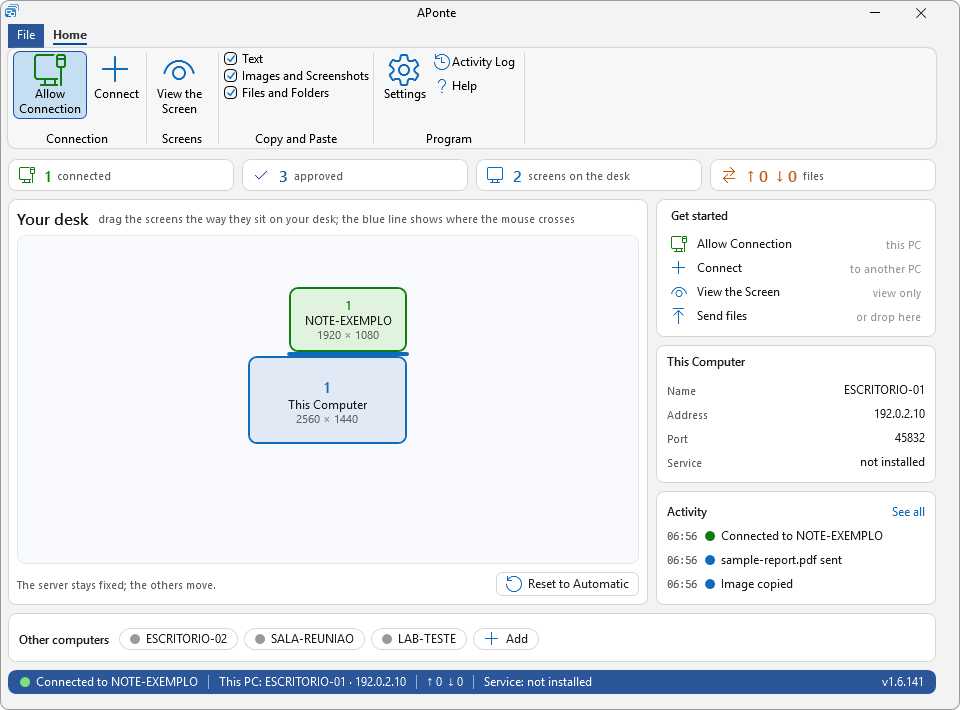
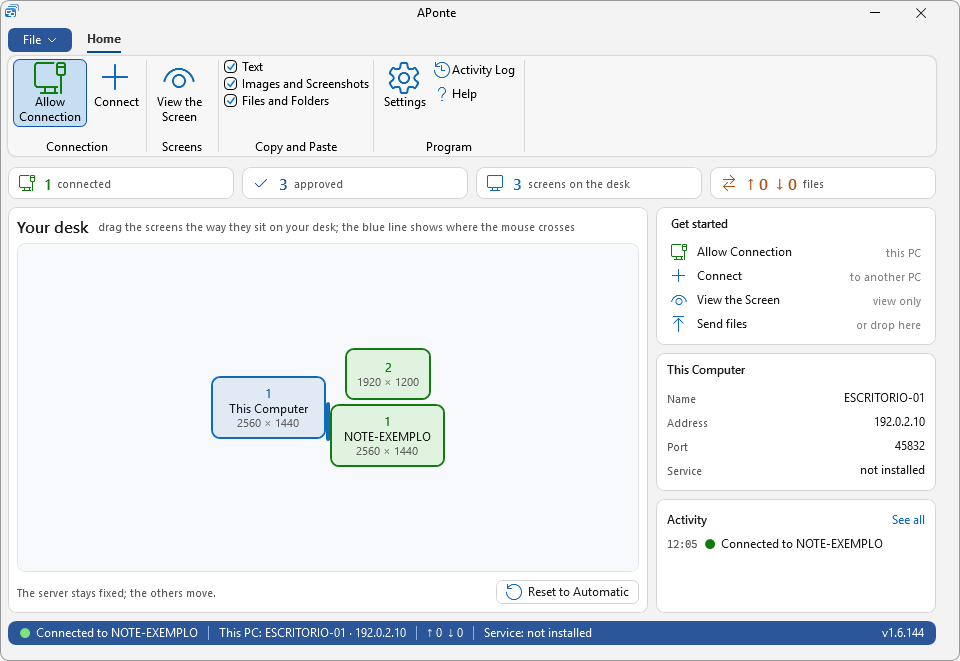
Página de apresentação: imagens e textos atualizados para a versão atual

diff --git a/README.md b/README.md
@@ -50,16 +50,17 @@ Baixe em [GitHub › versão mais recente](https://github.com/Dorflex-DD/APonte/
 ## O que ele faz
 
 - **Mouse e teclado compartilhados.** Leve o ponteiro até a borda da tela e ele passa para o outro computador; o teclado acompanha. `Ctrl+Alt+Pause` devolve o controle ao computador local.
-- **Sua mesa.** Arraste as telas dos outros computadores para onde elas estão de verdade na sua mesa: ao lado, acima, abaixo ou desalinhadas. Funciona com vários monitores, uma linha azul mostra por onde o mouse passa e a posição fica salva.
+- **Sua mesa.** Arraste as telas dos outros computadores para onde elas estão de verdade na sua mesa. A tela sempre encaixa encostada em um dos quatro lados (esquerda, direita, acima ou abaixo), monitor a monitor, também em computadores com vários monitores. Uma prévia tracejada mostra onde ela vai ficar, a linha azul mostra por onde o mouse passa e a posição fica salva.
 - **Copiar e colar entre os computadores.** Textos, imagens e prints, arquivos e pastas. Cada tipo pode ser ligado ou desligado.
 - **Enviar arquivos.** Arraste para a janela do APonte, escolha pelo seletor de arquivos ou use o item do APonte no menu do botão direito do Explorador de Arquivos.
 - **Ver a tela do outro computador.** Numa janela, por monitor ou todos juntos, também em tela cheia.
-- **Conexão só com aprovação.** Cada computador novo precisa ser aprovado uma vez. Dá para esquecer um computador aprovado ou todos.
+- **Conexão só com aprovação.** Cada computador novo precisa ser aprovado uma vez. Os aprovados ficam na janela Conectar, a um clique, e dá para esquecer um computador ou todos.
 - **Serviço do Windows.** Com o instalador, o controle funciona também na tela de entrada do Windows.
-- **Atualização pelo próprio app.** O APonte avisa quando há versão nova, baixa e instala. Os pacotes são conferidos por uma lista SHA-256 assinada.
+- **Atualização pelo próprio app.** O APonte avisa quando há versão nova, baixa e instala. Ele procura por dois caminhos: primeiro no GitLab e, se não houver resposta, no GitHub. Nos dois, o pacote só é instalado depois de conferido por uma lista SHA-256 assinada.
+- **Configurações com busca.** Todas as opções numa janela só, separadas por assunto, com um campo para procurar o que você precisa.
 - **Backup.** Importar e exportar as configurações.
 - **Registro e diagnóstico.** Histórico de conexões, arquivos e erros, com busca e filtros, e pacote de diagnóstico.
-- **Português e inglês**, tema claro ou escuro, cor de destaque e tamanho da interface.
+- **Tema claro e escuro**, cor de destaque e tamanho da interface, em português e inglês.
 - **Perto do relógio.** O APonte pode iniciar com o Windows, continuar no ícone ao lado do relógio e reconectar sozinho.
 
 ## Como começar
@@ -70,21 +71,31 @@ Baixe em [GitHub › versão mais recente](https://github.com/Dorflex-DD/APonte/
 
 ## Imagens
 
-Todas as imagens são da versão 1.6.141, com dados de exemplo.
+Imagens do próprio APonte, com dados de exemplo.
 
 <p align="center">
-  <img src="docs/imagens/pt/principal-conectado.png" width="820" alt="Janela principal conectada"><br>
-  <sub><b>Sua mesa</b> com um computador conectado: contadores, atalhos para começar, dados deste computador e atividade.</sub>
+  <img src="docs/imagens/pt/principal-conectado.png" width="820" alt="Janela principal conectada, com um computador de dois monitores encostado"><br>
+  <sub><b>Sua mesa</b> com um computador de dois monitores encostado à direita: contadores, atalhos para começar, dados deste computador e atividade.</sub>
 </p>
 
 <p align="center">
-  <img src="docs/imagens/pt/mesa-arrastando.png" width="820" alt="Arrastando uma tela na Sua mesa"><br>
-  <sub><b>Arrastando uma tela</b> para o lugar onde ela está na mesa. A linha azul mostra por onde o mouse passa.</sub>
+  <img src="docs/imagens/pt/mesa-arrastando.png" width="820" alt="Arrastando as telas de um computador na Sua mesa"><br>
+  <sub><b>Arrastando um computador</b> para o outro lado: a prévia tracejada mostra onde cada monitor vai encaixar e a linha azul, por onde o mouse passa.</sub>
+</p>
+
+<p align="center">
+  <img src="docs/imagens/pt/principal-conectado-escuro.png" width="820" alt="Janela principal no tema escuro"><br>
+  <sub><b>Tema escuro</b>: a mesma janela, com as mesmas funções.</sub>
 </p>
 
 <p align="center">
   <img src="docs/imagens/pt/principal-sem-conexao.png" width="820" alt="Janela principal sem conexão"><br>
-  <sub><b>Sem conexão</b>: os computadores já aprovados ficam a um clique, em <i>Outros computadores</i>.</sub>
+  <sub><b>Sem conexão</b>: a mesa mostra só este computador; <i>Permitir conexão</i> e <i>Conectar</i> ficam à mão.</sub>
+</p>
+
+<p align="center">
+  <img src="docs/imagens/pt/menu-arquivo.png" width="820" alt="Botão Arquivo com o menu aberto"><br>
+  <sub><b>Menu Arquivo</b>: configurações, importar e exportar, ajuda e os computadores recentes.</sub>
 </p>
 
 <p align="center">
@@ -94,11 +105,29 @@ Todas as imagens são da versão 1.6.141, com dados de exemplo.
 
 | | |
 |:---:|:---:|
-| <img src="docs/imagens/pt/conectar.png" alt="Janela Conectar"><br><sub><b>Conectar</b>: nome ou endereço, porta e de que lado o outro fica.</sub> | <img src="docs/imagens/pt/aprovar.png" alt="Pedido de conexão"><br><sub><b>Pedido de conexão</b>: só entra quem você permitir.</sub> |
+| <img src="docs/imagens/pt/conectar.png" alt="Janela Conectar"><br><sub><b>Conectar</b>: nome ou endereço, porta, o lado e a lista dos computadores aprovados.</sub> | <img src="docs/imagens/pt/aprovar.png" alt="Pedido de conexão"><br><sub><b>Pedido de conexão</b>: só entra quem você permitir.</sub> |
 | <img src="docs/imagens/pt/enviar.png" alt="Enviando arquivos"><br><sub><b>Enviar arquivos</b> com andamento e velocidade.</sub> | <img src="docs/imagens/pt/sobre.png" alt="Sobre o APonte"><br><sub><b>Sobre</b>: versão, novidades, termos e verificação de atualização.</sub> |
-| <img src="docs/imagens/pt/menu-arquivo.png" alt="Menu Arquivo"><br><sub><b>Menu Arquivo</b> com os computadores recentes.</sub> | <img src="docs/imagens/pt/menu-mesa.png" alt="Menu do botão direito na tela da mesa"><br><sub><b>Botão direito</b> numa tela da mesa.</sub> |
-| <img src="docs/imagens/pt/config-geral.png" alt="Configurações, página Geral"><br><sub><b>Configurações › Geral</b></sub> | <img src="docs/imagens/pt/config-conexao.png" alt="Configurações, página Conexão"><br><sub><b>Configurações › Conexão</b></sub> |
-| <img src="docs/imagens/pt/config-aparencia.png" alt="Configurações, página Aparência"><br><sub><b>Configurações › Aparência</b>: tema, cor e tamanho.</sub> | <img src="docs/imagens/pt/registro.png" alt="Registro"><br><sub><b>Registro</b> com busca e filtros.</sub> |
+| <img src="docs/imagens/pt/menu-mesa.png" alt="Menu do botão direito na tela da mesa"><br><sub><b>Botão direito</b> numa tela da mesa: ver a tela, enviar arquivos e posição.</sub> | <img src="docs/imagens/pt/registro.png" alt="Registro"><br><sub><b>Registro</b> com busca e filtros.</sub> |
+
+<p align="center">
+  <img src="docs/imagens/pt/config-windows.png" width="760" alt="Configurações, página Windows"><br>
+  <sub><b>Configurações</b>: os assuntos à esquerda e todas as opções numa rolagem só.</sub>
+</p>
+
+<p align="center">
+  <img src="docs/imagens/pt/config-busca.png" width="760" alt="Busca nas Configurações"><br>
+  <sub><b>Procurar nas configurações</b>: digite e fica só o que combina.</sub>
+</p>
+
+<p align="center">
+  <img src="docs/imagens/pt/config-aparencia.png" width="760" alt="Configurações, página Aparência"><br>
+  <sub><b>Configurações › Aparência</b>: tema, cor de destaque, tamanho e idioma.</sub>
+</p>
+
+<p align="center">
+  <img src="docs/imagens/pt/config-rede.png" width="760" alt="Configurações, página Rede e computadores aprovados"><br>
+  <sub><b>Configurações › Rede</b> e <b>Computadores aprovados</b>: esquecer um computador ou todos.</sub>
+</p>
 
 ## Requisitos
 
@@ -110,7 +139,8 @@ O instalador abre em português. Para inglês, execute `msiexec /i "arquivo.msi"
 
 ## Atualizações
 
-- O APonte avisa quando há versão nova e faz a atualização (**Configurações › Atualização** ou **Sobre › Verificar atualização**). A verificação pode ser desligada nas Configurações.
+- O APonte avisa quando há versão nova e faz a atualização (**Configurações › Atualizações** ou **Sobre › Verificar atualização**). A verificação pode ser desligada nas Configurações.
+- A busca da versão nova usa dois caminhos: o GitLab e, se ele não responder, o GitHub. A conferência da assinatura é a mesma nos dois.
 - Atualizar mantém as configurações e os computadores aprovados.
 - Se você usa a 1.6.125, 1.6.126 ou 1.6.127 com apenas o .NET 10, instale antes o [.NET Desktop Runtime 11 x64](https://dotnet.microsoft.com/download/dotnet/11.0) ou baixe o pacote `com-runtime` no mesmo formato que já usa.
 - **Portátil, à mão:** feche o APonte, apague tudo na pasta dele, menos a pasta `dados`, e descompacte o pacote novo. Nunca descompacte por cima.
@@ -121,7 +151,7 @@ O instalador abre em português. Para inglês, execute `msiexec /i "arquivo.msi"
 - **Rede local.** Os computadores conversam diretamente entre si, pela sua rede. Não há conta nem cadastro.
 - **Aprovação.** Um computador novo só entra depois que você permite. Nome e endereço não bastam: cada computador tem uma identidade própria, que é conferida a cada conexão, e a conexão entre eles é cifrada.
 - **Atualizações conferidas.** Antes de instalar uma versão nova, o APonte confere os pacotes por uma lista SHA-256 assinada pelo autor.
-- **Seus dados ficam com você.** O APonte grava seus dados apenas na própria pasta e não envia informações ao autor. A verificação de versão nova consulta apenas o endereço público de publicação.
+- **Seus dados ficam com você.** O APonte grava seus dados apenas na própria pasta e não envia informações ao autor. A verificação de versão nova consulta apenas os endereços públicos de publicação (GitLab e GitHub).
 
 ## Licença
 

diff --git a/README.en.md b/README.en.md
@@ -50,16 +50,17 @@ Download from [GitHub › latest version](https://github.com/Dorflex-DD/APonte/r
 ## What it does
 
 - **Shared mouse and keyboard.** Move the pointer to the edge of the screen and it crosses to the other computer; the keyboard follows. `Ctrl+Alt+Pause` gives control back to the local computer.
-- **Your desk.** Drag the other computers' screens to where they really sit on your desk: beside, above, below or unaligned. It works with several monitors, a blue line shows where the mouse crosses, and the position is saved.
+- **Your desk.** Drag the other computers' screens to where they really sit on your desk. A screen always snaps against one of the four sides (left, right, above or below), monitor by monitor, also on computers with several monitors. A dashed preview shows where it will land, the blue line shows where the mouse crosses, and the position is saved.
 - **Copy and paste between computers.** Text, images and screenshots, files and folders. Each kind can be turned on or off.
 - **Send files.** Drag them onto the APonte window, pick them with the file chooser or use the APonte item in the File Explorer right-click menu.
 - **View the other computer's screen.** In a window, one monitor or all of them, also in full screen.
-- **Connection only with approval.** Each new computer has to be approved once. You can forget one approved computer or all of them.
+- **Connection only with approval.** Each new computer has to be approved once. Approved computers are listed in the Connect window, one click away, and you can forget one computer or all of them.
 - **Windows service.** With the installer, control also works on the Windows sign-in screen.
-- **Updates from the app itself.** APonte tells you when there is a new version, downloads and installs it. Packages are checked against a signed SHA-256 list.
+- **Updates from the app itself.** APonte tells you when there is a new version, downloads and installs it. It looks in two places: GitLab first and, if there is no answer, GitHub. Either way, the package is only installed after it is checked against a signed SHA-256 list.
+- **Settings with search.** Every option in a single window, grouped by subject, with a box to search for what you need.
 - **Backup.** Import and export the settings.
 - **Activity log and diagnostics.** History of connections, files and errors, with search and filters, plus a diagnostics package.
-- **Portuguese and English**, light or dark theme, accent color and interface size.
+- **Light and dark theme**, accent color and interface size, in Portuguese and English.
 - **Near the clock.** APonte can start with Windows, keep running in the icon next to the clock and reconnect by itself.
 
 ## Getting started
@@ -70,21 +71,31 @@ Download from [GitHub › latest version](https://github.com/Dorflex-DD/APonte/r
 
 ## Screenshots
 
-All images are from version 1.6.141, with sample data.
+Screenshots of APonte itself, with sample data.
 
 <p align="center">
-  <img src="docs/imagens/en/principal-conectado.png" width="820" alt="Main window, connected"><br>
-  <sub><b>Your desk</b> with one computer connected: counters, shortcuts to get started, this computer's details and activity.</sub>
+  <img src="docs/imagens/en/principal-conectado.png" width="820" alt="Main window, connected, with a two-monitor computer snapped beside it"><br>
+  <sub><b>Your desk</b> with a two-monitor computer snapped on the right: counters, shortcuts to get started, this computer's details and activity.</sub>
 </p>
 
 <p align="center">
-  <img src="docs/imagens/en/mesa-arrastando.png" width="820" alt="Dragging a screen in Your desk"><br>
-  <sub><b>Dragging a screen</b> to where it sits on the desk. The blue line shows where the mouse crosses.</sub>
+  <img src="docs/imagens/en/mesa-arrastando.png" width="820" alt="Dragging a computer's screens in Your desk"><br>
+  <sub><b>Dragging a computer</b> to the other side: the dashed preview shows where each monitor will snap and the blue line shows where the mouse crosses.</sub>
+</p>
+
+<p align="center">
+  <img src="docs/imagens/en/principal-conectado-escuro.png" width="820" alt="Main window in the dark theme"><br>
+  <sub><b>Dark theme</b>: the same window, with the same features.</sub>
 </p>
 
 <p align="center">
   <img src="docs/imagens/en/principal-sem-conexao.png" width="820" alt="Main window, not connected"><br>
-  <sub><b>Not connected</b>: the computers already approved are one click away, in <i>Other computers</i>.</sub>
+  <sub><b>Not connected</b>: the desk shows only this computer; <i>Allow Connection</i> and <i>Connect</i> are at hand.</sub>
+</p>
+
+<p align="center">
+  <img src="docs/imagens/en/menu-arquivo.png" width="820" alt="File button with its menu open"><br>
+  <sub><b>File menu</b>: settings, import and export, help and the recent computers.</sub>
 </p>
 
 <p align="center">
@@ -94,11 +105,29 @@ All images are from version 1.6.141, with sample data.
 
 | | |
 |:---:|:---:|
-| <img src="docs/imagens/en/conectar.png" alt="Connect window"><br><sub><b>Connect</b>: name or address, port and which side the other one sits on.</sub> | <img src="docs/imagens/en/aprovar.png" alt="Connection request"><br><sub><b>Connection request</b>: only those you allow get in.</sub> |
+| <img src="docs/imagens/en/conectar.png" alt="Connect window"><br><sub><b>Connect</b>: name or address, port, the side and the list of approved computers.</sub> | <img src="docs/imagens/en/aprovar.png" alt="Connection request"><br><sub><b>Connection request</b>: only those you allow get in.</sub> |
 | <img src="docs/imagens/en/enviar.png" alt="Sending files"><br><sub><b>Send files</b> with progress and speed.</sub> | <img src="docs/imagens/en/sobre.png" alt="About APonte"><br><sub><b>About</b>: version, what's new, terms and update check.</sub> |
-| <img src="docs/imagens/en/menu-arquivo.png" alt="File menu"><br><sub><b>File menu</b> with the recent computers.</sub> | <img src="docs/imagens/en/menu-mesa.png" alt="Right-click menu on a screen of the desk"><br><sub><b>Right-click</b> on a screen of the desk.</sub> |
-| <img src="docs/imagens/en/config-geral.png" alt="Settings, General page"><br><sub><b>Settings › General</b></sub> | <img src="docs/imagens/en/config-conexao.png" alt="Settings, Connection page"><br><sub><b>Settings › Connection</b></sub> |
-| <img src="docs/imagens/en/config-aparencia.png" alt="Settings, Appearance page"><br><sub><b>Settings › Appearance</b>: theme, color and size.</sub> | <img src="docs/imagens/en/registro.png" alt="Activity Log"><br><sub><b>Activity Log</b> with search and filters.</sub> |
+| <img src="docs/imagens/en/menu-mesa.png" alt="Right-click menu on a screen of the desk"><br><sub><b>Right-click</b> on a screen of the desk: view the screen, send files and position.</sub> | <img src="docs/imagens/en/registro.png" alt="Activity Log"><br><sub><b>Activity Log</b> with search and filters.</sub> |
+
+<p align="center">
+  <img src="docs/imagens/en/config-windows.png" width="760" alt="Settings, Windows page"><br>
+  <sub><b>Settings</b>: subjects on the left and every option in a single scroll.</sub>
+</p>
+
+<p align="center">
+  <img src="docs/imagens/en/config-busca.png" width="760" alt="Search in Settings"><br>
+  <sub><b>Search Settings</b>: type and only what matches stays.</sub>
+</p>
+
+<p align="center">
+  <img src="docs/imagens/en/config-aparencia.png" width="760" alt="Settings, Appearance page"><br>
+  <sub><b>Settings › Appearance</b>: theme, accent color, size and language.</sub>
+</p>
+
+<p align="center">
+  <img src="docs/imagens/en/config-rede.png" width="760" alt="Settings, Network page and approved computers"><br>
+  <sub><b>Settings › Network</b> and <b>Approved Computers</b>: forget one computer or all of them.</sub>
+</p>
 
 ## Requirements
 
@@ -110,7 +139,8 @@ The installer opens in Portuguese. For English, run `msiexec /i "file.msi" TRANS
 
 ## Updates
 
-- APonte tells you when there is a new version and updates itself (**Settings › Update** or **About › Check for Updates**). The check can be turned off in Settings.
+- APonte tells you when there is a new version and updates itself (**Settings › Updates** or **About › Check for Updates**). The check can be turned off in Settings.
+- The new-version check uses two places: GitLab and, if it does not answer, GitHub. The signature check is the same for both.
 - Updating keeps the settings and the approved computers.
 - If you use 1.6.125, 1.6.126 or 1.6.127 with only .NET 10, first install the [.NET Desktop Runtime 11 x64](https://dotnet.microsoft.com/download/dotnet/11.0) or download the `com-runtime` package in the same format you already use.
 - **Portable, by hand:** close APonte, delete everything in its folder except the `dados` folder, and extract the new package. Never extract over the old files.
@@ -121,7 +151,7 @@ The installer opens in Portuguese. For English, run `msiexec /i "file.msi" TRANS
 - **Local network.** The computers talk directly to each other, over your network. There is no account or sign-up.
 - **Approval.** A new computer only gets in after you allow it. Name and address are not enough: each computer has its own identity, checked on every connection, and the connection between them is encrypted.
 - **Checked updates.** Before installing a new version, APonte checks the packages against a SHA-256 list signed by the author.
-- **Your data stays with you.** APonte stores its data only in its own folder and does not send information to the author. The new-version check only queries the public release address.
+- **Your data stays with you.** APonte stores its data only in its own folder and does not send information to the author. The new-version check only queries the public release addresses (GitLab and GitHub).
 
 ## License
 
